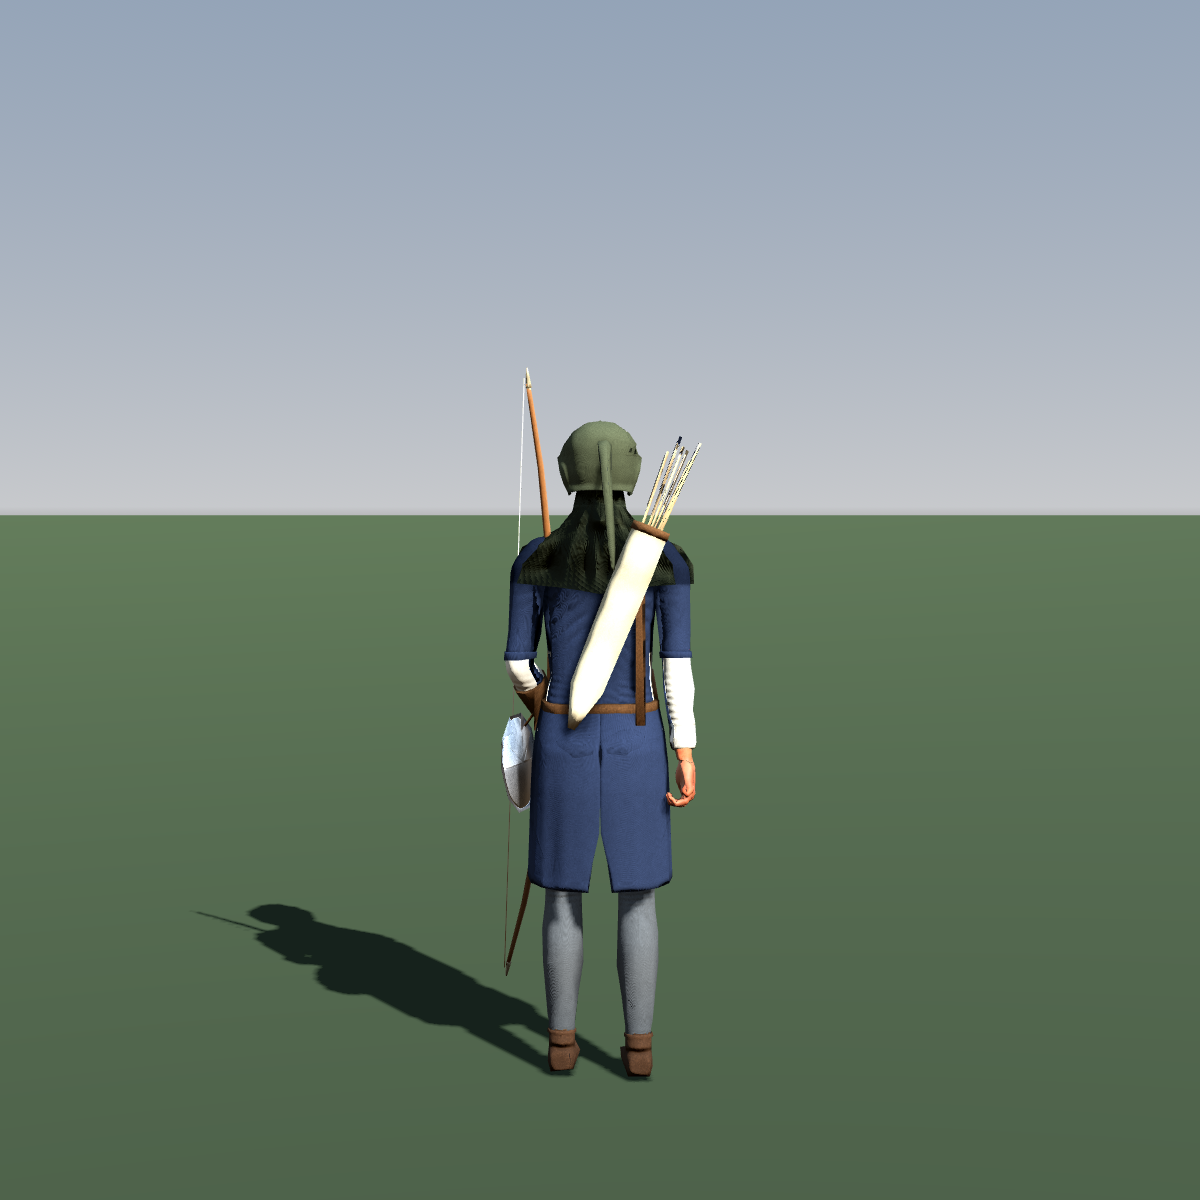
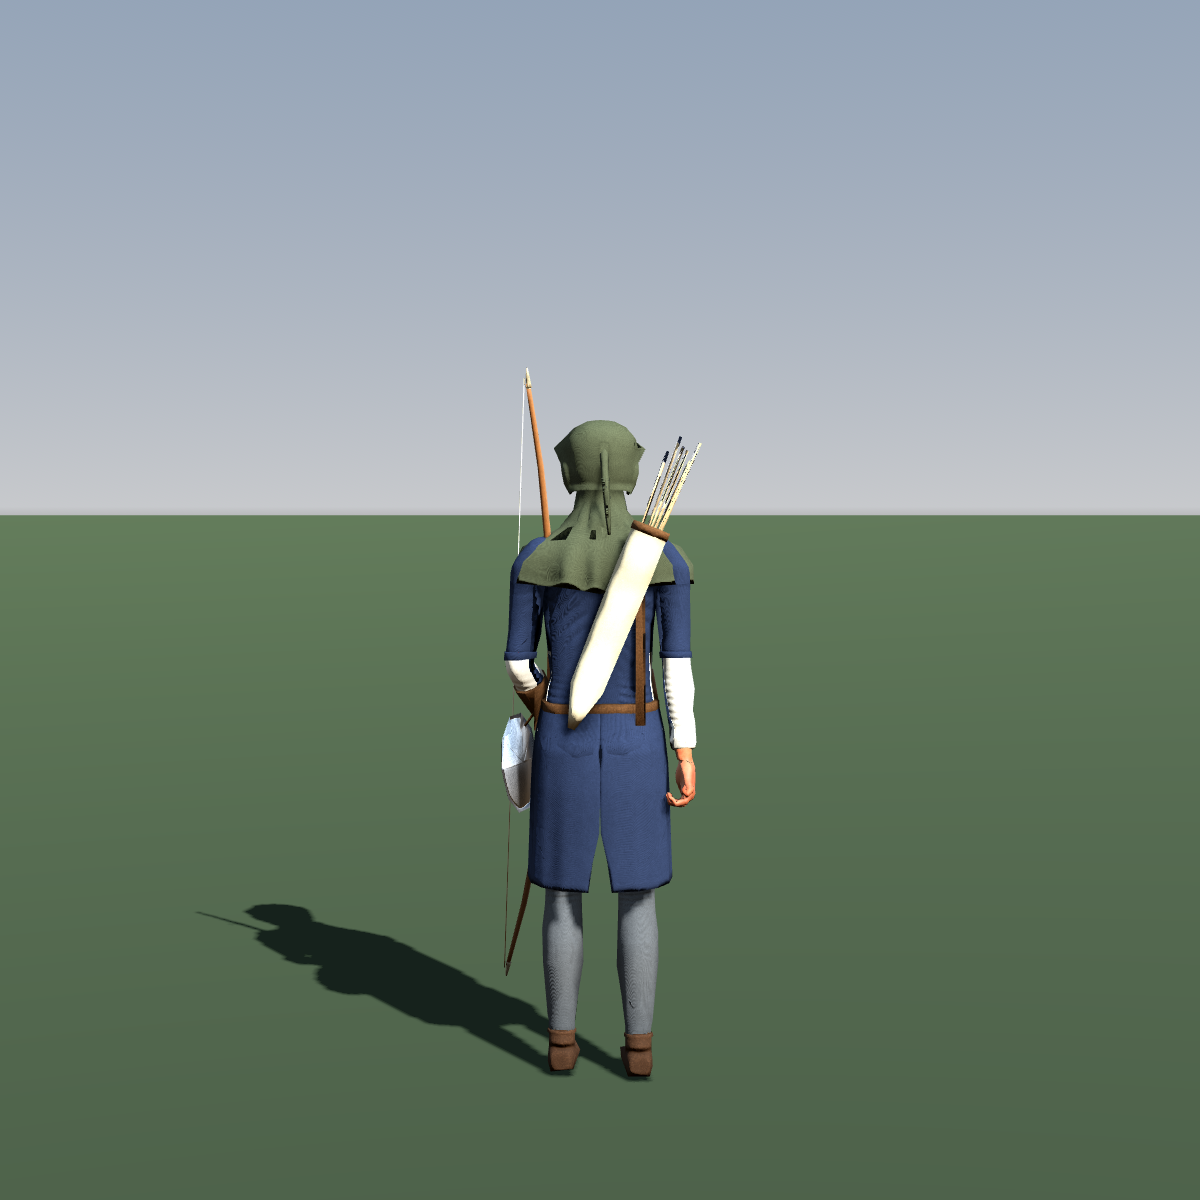
kits 5/7: archer lo cape padded + full-res lo hood roll; em_pike lo breastplate 17x9, thicker plumes

Changed region(s): [[0.4317, 0.37, 0.5858, 0.4933]]

diff --git a/pipeline/blender/kit_em_pike.py b/pipeline/blender/kit_em_pike.py
@@ -163,10 +163,10 @@ def _bp_pt(R, Z, i, j, off=0.0):
 
 def breastplate(tree, hi=False):
     R, Z = _FIT['bp']
-    js = list(range(0, BP_NA + 1, 1 if hi else 8)); is_ = list(range(0, BP_NZ + 1, 1 if hi else 8))
+    js = list(range(0, BP_NA + 1, 1 if hi else 4)); is_ = list(range(0, BP_NZ + 1, 1 if hi else 5))
     secs = []
     for j in js:
-        outer = [_bp_pt(R, Z, i, j) for i in is_]
+        outer = [_bp_pt(R, Z, i, j, 0.0 if hi else 0.0015) for i in is_]
         inner = [_bp_pt(R, Z, i, j, -0.0035) for i in is_]
         if hi:   # flared bottom lip
             outer[0] = outer[0] + V(math.sin(lerp(-BP_A, BP_A, j / BP_NA)), math.cos(lerp(-BP_A, BP_A, j / BP_NA)), 0) * 0.004
@@ -303,14 +303,14 @@ def beret(hi=False):
             r = lerp(0.05, BER_RB + 0.03, u ** 0.8)
             h = 0.058 + 0.05 * math.sin(math.pi * u * 0.8) - 0.09 * ss(0.7, 1.0, u) + 0.006 * k
             pth.append((u, L(r, a, h)))
-        ns = 40 if hi else 7
+        ns = 40 if hi else 10
         prof_ = []
         for m in range(ns + 1):
             u = m / ns
             w = (0.010 + 0.028 * math.sin(math.pi * min(1.0, u * 1.15)) ** 0.7) * sc
             if hi: w *= 1.0 + 0.22 * abs(math.sin(u * 55.0))   # fluffy barbs
-            prof_.append((u, w, 0.0035, 0.0035))
-        out.append(limb('lpplume', pth, prof_, ns, 8 if hi else 4, fwd=BER_R @ V(0, 0, 1), slot=slot, e=2.6))
+            prof_.append((u, w, 0.0055, 0.0055))
+        out.append(limb('lpplume', pth, prof_, ns, 8 if hi else 6, fwd=BER_R @ V(0, 0, 1), slot=slot, e=2.6))
     return out
 
 # ------------------------------------------------------------------ pike

diff --git a/pipeline/blender/kit_med_archer.py b/pipeline/blender/kit_med_archer.py
@@ -243,7 +243,7 @@ def hood(hi=False):
     op = [i for i, row in enumerate(dirs) if (row[0] - row[-1]).length > 0.02]   # rows with a face opening only
     edge = [HC + dirs[i][0] * (R[i, 0] + 0.006) for i in op] + [HC + dirs[i][-1] * (R[i, -1] + 0.006) for i in reversed(op)]
     path = [(k / (len(edge) - 1), p) for k, p in enumerate(edge)]
-    out.append(limb('arhood.roll', path, [(0, 0.0055, 0.0055, 0.0055)], len(edge) - 1 if hi else 8, 6 if hi else 3, fwd=V(0, 1, 0),
+    out.append(limb('arhood.roll', path, [(0, 0.0055 if hi else 0.0068, 0.0055 if hi else 0.0068, 0.0055 if hi else 0.0068)], len(edge) - 1, 6 if hi else 4, fwd=V(0, 1, 0),
                     slot='felt', cap0=True, cap1=True))
     # liripipe: long tail from the crown hanging down the back
     p0 = HC + V(0, -0.86, 0.50).normalized() * 0.112
@@ -297,6 +297,8 @@ def cape(hi=False):
         for j in cs:
             a = 2 * math.pi * j / CAPE_NA
             r = R[i, j]
+            if not hi:   # lo: padded local max of the hi fit (shoulders / hood bib between samples stay inside, no bake bleed)
+                r = float(R[max(0, i - 3):i + 4, [(j + k) % CAPE_NA for k in range(-3, 4)]].max()) + 0.003 + 0.006 * ss(0.4, 1.0, t)
             if hi: r += 0.010 * ss(0.4, 1.0, t) * math.sin(a * 11.0 + 0.8) + 0.010 * math.exp(-((t - 1.0) / 0.03) ** 2)
             z = _cape_z(a, t)
             outer.append(V(math.cos(a) * r, cy + math.sin(a) * r, z))

diff --git a/pipeline/blender/kit_em_musket.py b/pipeline/blender/kit_em_musket.py
@@ -256,14 +256,14 @@ def hat(hi=False):
         u = m / 8; a = math.radians(205 + 40 * u)
         r = lerp(rb[int(nu * 205 / 360)] + 0.006, rb[int(nu * 205 / 360)] + 0.20, u)
         pth.append((u, L(r, a, 0.02 + 0.07 * math.sin(math.pi * u * 0.7) - 0.05 * ss(0.7, 1.0, u))))
-    ns = 32 if hi else 6
+    ns = 32 if hi else 9
     prof = []
     for m in range(ns + 1):
         u = m / ns
         w = 0.004 + 0.013 * math.sin(math.pi * min(1.0, u * 1.08)) ** 0.8
         if hi: w *= 1.0 + 0.18 * abs(math.sin(u * 70.0))
-        prof.append((u, w, 0.0025, 0.0025))
-    out.append(limb('lmhat.plume', pth, prof, ns, 6 if hi else 4, fwd=HAT_R @ V(0, 0, 1), slot='plume', e=2.6))
+        prof.append((u, w, 0.0045, 0.0045))
+    out.append(limb('lmhat.plume', pth, prof, ns, 8 if hi else 6, fwd=HAT_R @ V(0, 0, 1), slot='plume', e=2.6))
     return out
 
 # ------------------------------------------------------------------ matchlock arquebus (prop frame: barrel along +y)
